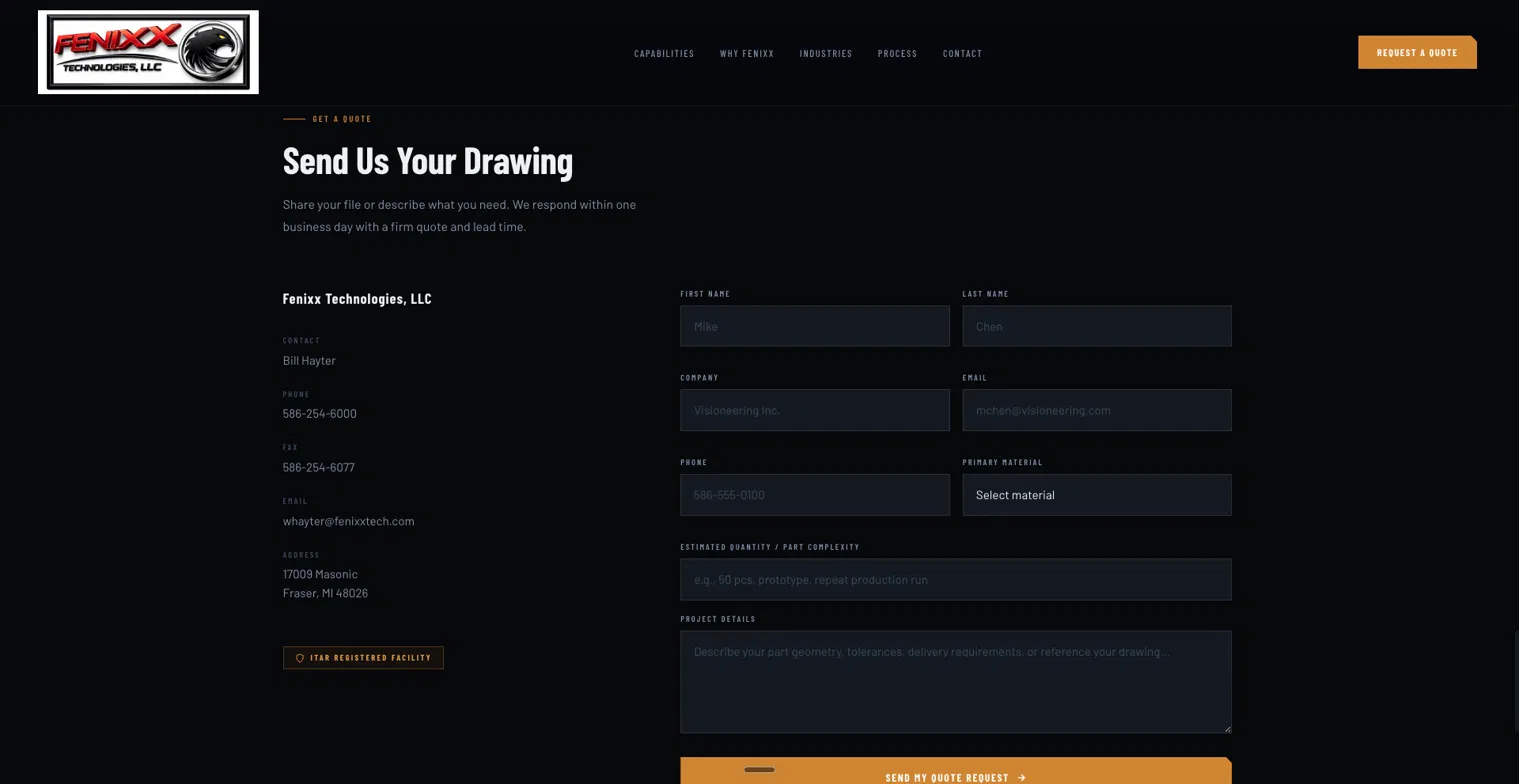
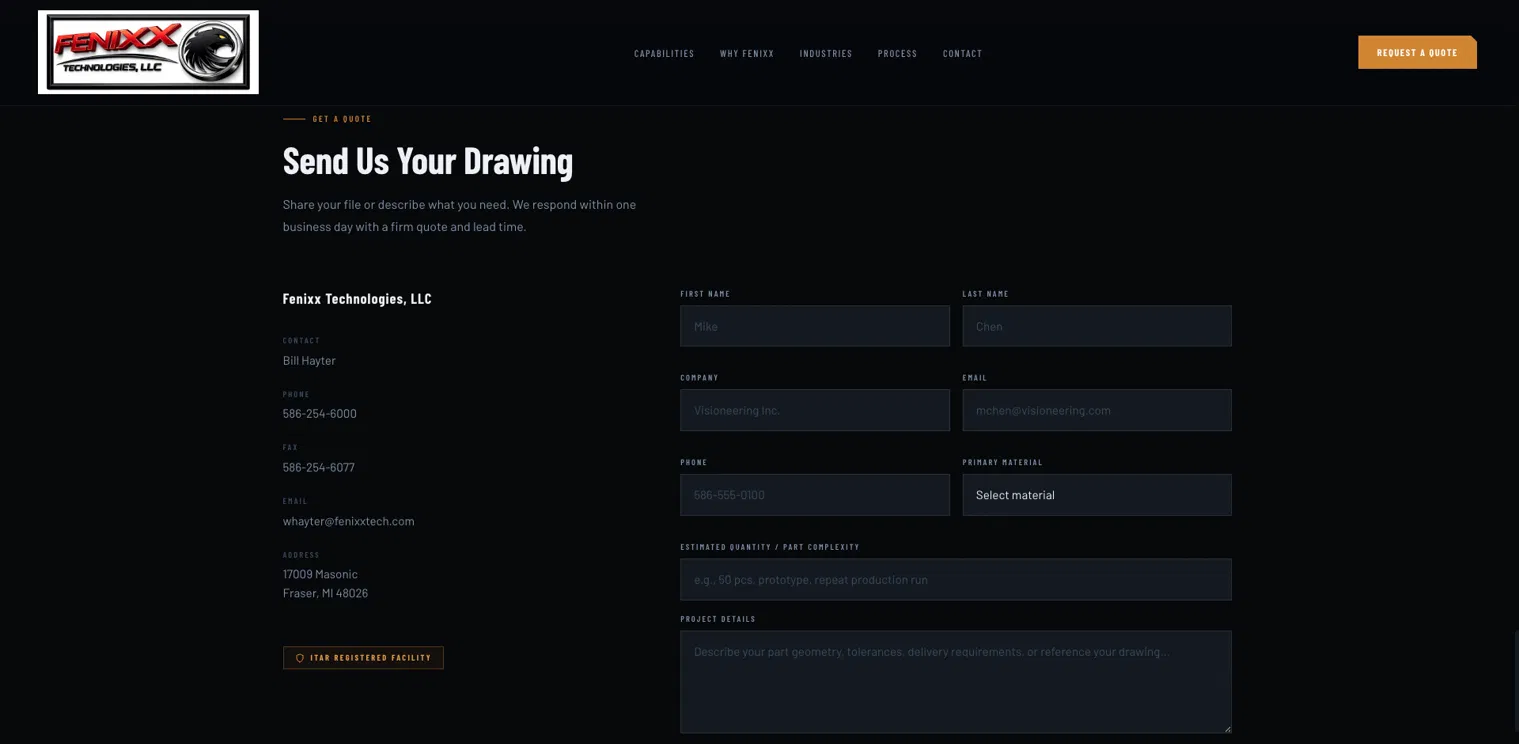
Fenixx case study: crop/clean Before image, crop Quote form, widen image containers
- Fenixx-Before.png: cropped to y=420 (removes tree photo), then painted
  white over the broken grey map placeholder (was side-by-side with contact
  info so y-crop alone couldn't remove it)
- Quote-form-fenixx.png: cropped to y=744 to end cleanly after Project
  Details textarea, removing the half-visible submit button
- Before/After HTML: image grid widened to max-w-7xl, fixed 380px height
  containers with object-cover object-top so mismatched aspect ratios
  render at matched scale side by side

diff --git a/case-studies/fenixx.html b/case-studies/fenixx.html
@@ -146,28 +146,34 @@
        THE STRATEGY + BEFORE/AFTER
   ═══════════════════════════════════════════ -->
   <section class="py-16 bg-white border-b border-edge">
-    <div class="max-w-5xl mx-auto px-6">
 
-      <div class="max-w-2xl mb-10">
+    <div class="max-w-5xl mx-auto px-6 mb-10">
+      <div class="max-w-2xl">
         <p class="font-sans text-xs font-medium uppercase tracking-[0.18em] text-ghost mb-3">The Strategy</p>
         <h2 class="font-display font-bold text-3xl md:text-4xl tracking-tightest mb-6">Built around what procurement engineers actually evaluate.</h2>
         <p class="text-ghost text-sm leading-relaxed">
           Built the site around what procurement and engineering buyers actually evaluate: tolerances, machine capabilities, materials, facility details. The quote form was designed around Fenixx's real sales workflow, the exact fields their team needed to qualify a request, including file upload support for design files.
         </p>
       </div>
+    </div>
 
+    <div class="max-w-7xl mx-auto px-6">
       <div class="grid grid-cols-1 md:grid-cols-2 gap-6">
         <div>
           <p class="font-sans text-xs font-medium uppercase tracking-[0.18em] text-ghost mb-3">Before</p>
-          <img src="../Fenixx/Fenixx-Before.png" alt="Fenixx Technologies old website" class="w-full rounded-[4px] border border-edge" />
+          <div class="overflow-hidden rounded-[4px] border border-edge" style="height:380px;">
+            <img src="../Fenixx/Fenixx-Before.png" alt="Fenixx Technologies old website" class="w-full h-full object-cover object-top" />
+          </div>
         </div>
         <div>
           <p class="font-sans text-xs font-medium uppercase tracking-[0.18em] text-ghost mb-3">After</p>
-          <img src="../Fenixx/Fenixx-after.png" alt="Fenixx Technologies new website" class="w-full rounded-[4px] border border-edge" />
+          <div class="overflow-hidden rounded-[4px] border border-edge" style="height:380px;">
+            <img src="../Fenixx/Fenixx-after.png" alt="Fenixx Technologies new website" class="w-full h-full object-cover object-top" />
+          </div>
         </div>
       </div>
-
     </div>
+
   </section>
 
 
